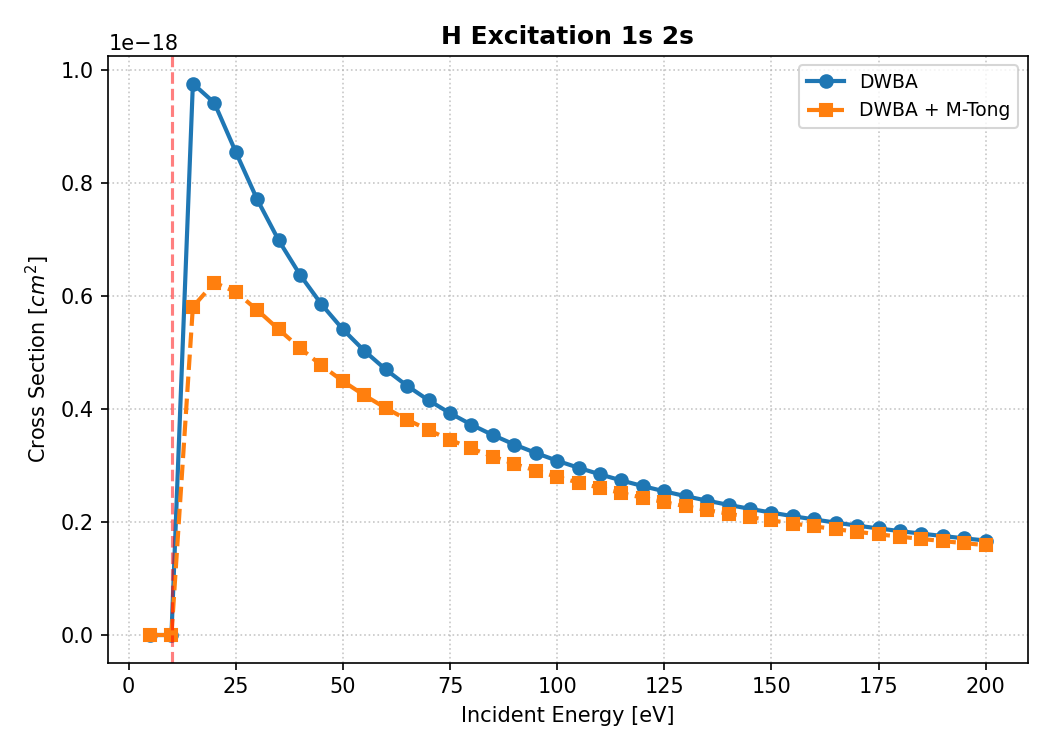
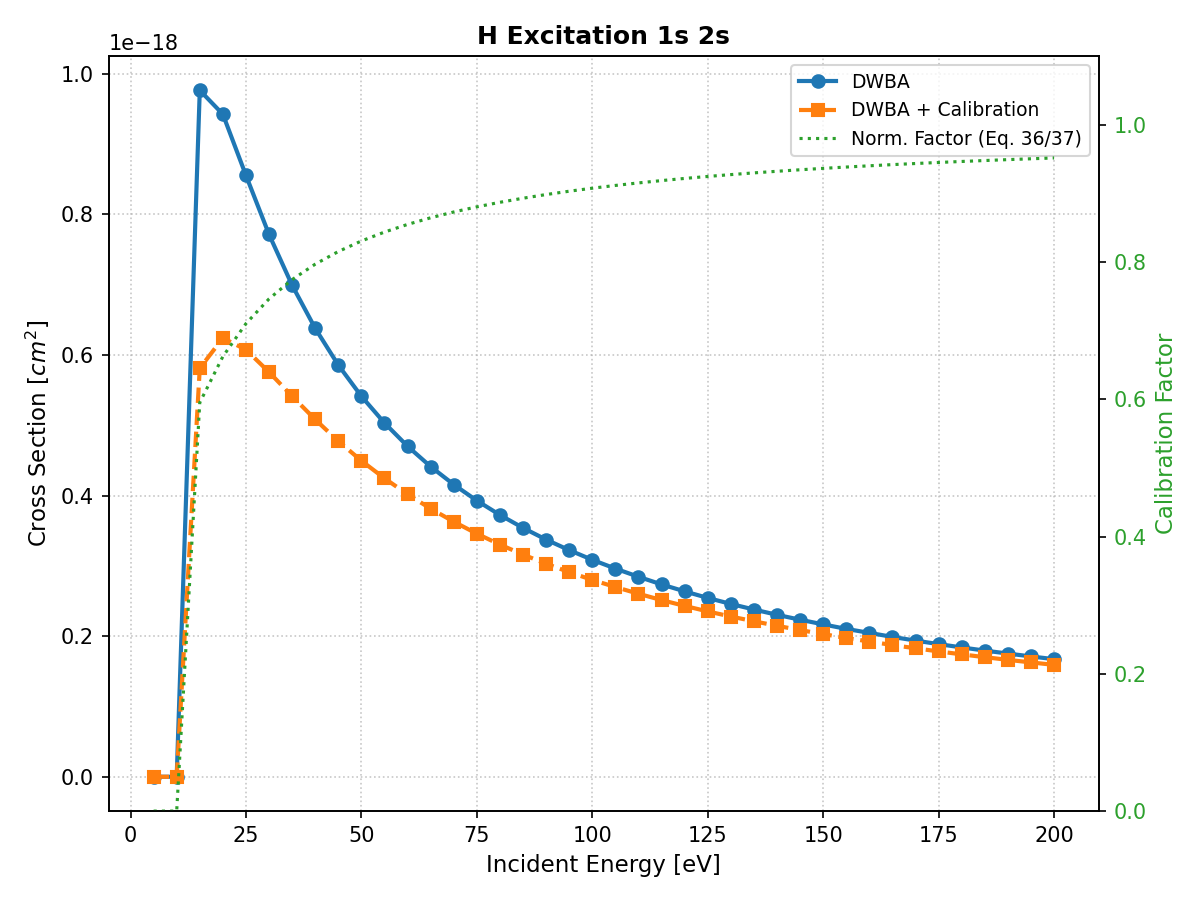
Edit_5

diff --git a/plotter.py b/plotter.py
@@ -1,13 +1,12 @@
 # plotter.py
 #
-# Universal DWBA Results Plotter.
-# Reads scan_results.json and generates high-quality plots for all datasets found.
+# Universal DWBA Results Plotter (v2).
+# Reads scan_results.json and generates high-quality plots.
 #
-# Usage: python plotter.py [style]
-# Styles:
-#   std     -> E[eV] vs Sigma[cm^2]
-#   atomic  -> E[Ha] vs Sigma[a0^2]
-#   article -> E[u]  vs Sigma[pi a0^2]  (u = E/Threshold)
+# Features:
+#   - Styles (std/atomic/article)
+#   - Left Axis: Cross Sections (DWBA & DWBA+Tong)
+#   - Right Axis: Calibration/Normalization Factor (Twin Axis)
 #
 
 import matplotlib.pyplot as plt
@@ -32,7 +31,7 @@ def load_data():
         return json.load(f)
 
 def get_style_config(style_name):
-    # Returns (convert_E_func, convert_Sig_func, xlabel, ylabel, file_suffix)
+    # Returns (conv_E, conv_S, xlabel, ylabel, suffix)
     
     if style_name == 'atomic':
         ev_conv = lambda e, thr: e / AU_TO_EV
@@ -41,8 +40,8 @@ def get_style_config(style_name):
         
     elif style_name == 'article':
         ev_conv = lambda e, thr: e / thr if thr > 1e-6 else e
-        sig_conv = lambda s: s / PI_A0_SQ_CM2
-        return ev_conv, sig_conv, "Energy [$E/E_{thr}$]", r"Cross Section [$\pi a_0^2$]", "_article"
+        sig_conv = lambda s: s / A0_SQ_CM2
+        return ev_conv, sig_conv, "Energy [$E/E_{thr}$]", r"Cross Section [a.u.]", "_article"
         
     else: # std
         ev_conv = lambda e, thr: e
@@ -62,13 +61,12 @@ def main():
 
     conv_E, conv_S, xlab, ylab, suffix = get_style_config(style)
     
-    # 1. Generate Combined Grid Plot
     keys = list(data.keys())
     n = len(keys)
     cols = min(n, 2)
     rows = math.ceil(n / cols)
     
-    fig, axes = plt.subplots(rows, cols, figsize=(7*cols, 5*rows))
+    fig, axes = plt.subplots(rows, cols, figsize=(8*cols, 6*rows))
     if n == 1: axes = [axes]
     else: axes = axes.flatten()
     
@@ -77,41 +75,56 @@ def main():
         pts = data[key]
         if not pts: continue
         
-        # Prepare arrays
-        # Filter zero energy or negative? No, keep all but handle threshold.
-        
         E_raw = np.array([p["energy_eV"] for p in pts])
         Sig_raw = np.array([p["sigma_cm2"] for p in pts])
         SigMT_raw = np.array([p.get("sigma_mtong_cm2", 0.0) for p in pts])
         
-        # Threshold
-        thr = 1.0 # fallback
-        if "Threshold_eV" in pts[0]: thr = pts[0]["Threshold_eV"]
+        # Calculate Factor (mtong / raw)
+        # Handle zeros safely
+        Factor = np.zeros_like(E_raw)
+        mask = Sig_raw > 1e-50 # Avoid div by zero
+        Factor[mask] = SigMT_raw[mask] / Sig_raw[mask]
         
-        # Convert
+        # For Ionization or Excitation threshold behavior
+        thr = 1.0 
+        if "Threshold_eV" in pts[0]: thr = pts[0]["Threshold_eV"]
+        elif "IP_eV" in pts[0]: thr = pts[0]["IP_eV"]
+        
         X = [conv_E(e, thr) for e in E_raw]
         Y = [conv_S(s) for s in Sig_raw]
         Y_MT = [conv_S(s) for s in SigMT_raw]
         
-        # Plot
-        ax.plot(X, Y, 'o-', linewidth=2, label='DWBA')
-        ax.plot(X, Y_MT, 's--', linewidth=2, label='DWBA + M-Tong')
+        # --- Left Axis (Cross Sections) ---
+        color1 = 'tab:blue'
+        color2 = 'tab:orange'
         
-        # Formatting
-        readable_title = key.replace("_", " ")
-        ax.set_title(readable_title, fontsize=12, fontweight='bold')
-        ax.set_xlabel(xlab, fontsize=10)
-        ax.set_ylabel(ylab, fontsize=10)
-        ax.legend(fontsize=9)
+        l1, = ax.plot(X, Y, 'o-', linewidth=2, color=color1, label='DWBA')
+        l2, = ax.plot(X, Y_MT, 's--', linewidth=2, color=color2, label='DWBA + Calibration')
+        
+        ax.set_xlabel(xlab, fontsize=11)
+        ax.set_ylabel(ylab, fontsize=11)
         ax.grid(True, linestyle=':', alpha=0.7)
+        ax.set_title(key.replace("_", " "), fontsize=12, fontweight='bold')
         
-        # Mark Threshold if applicable
+        # --- Right Axis (Calibration Factor) ---
+        ax2 = ax.twinx()
+        color3 = 'tab:green'
+        l3, = ax2.plot(X, Factor, ':', linewidth=1.5, color=color3, label='Norm. Factor')
+        ax2.set_ylabel("Calibration Factor", fontsize=11, color=color3)
+        ax2.tick_params(axis='y', labelcolor=color3)
+        ax2.set_ylim(0, 1.1) # Factor usually 0..1
+        
+        # Legend (Merge handles)
+        lns = [l1, l2, l3]
+        labs = [l.get_label() for l in lns]
+        ax.legend(lns, labs, loc='best', fontsize=9)
+        
+        # Threshold Mark
         if style == 'article':
             ax.axvline(1.0, color='red', linestyle='--', alpha=0.5)
         elif style == 'std':
-            ax.axvline(thr, color='red', linestyle='--', alpha=0.5, label=f'Thr={thr:.1f}eV')
+             pass 
 
-    # Remove empty plots
     for i in range(n, len(axes)):
         axes[i].axis('off')
         
@@ -119,8 +132,6 @@ def main():
     out_name = f"plot_combined{suffix}.png"
     plt.savefig(out_name, dpi=150)
     print(f"Saved {out_name}")
-    
-    # Optional: Generate individual plots? Use subplots is usually better for overview.
 
 if __name__ == "__main__":
     main()
